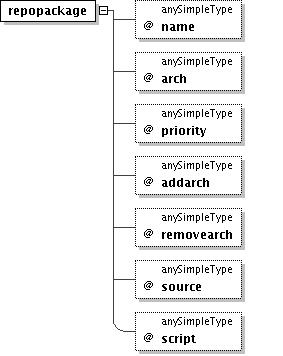
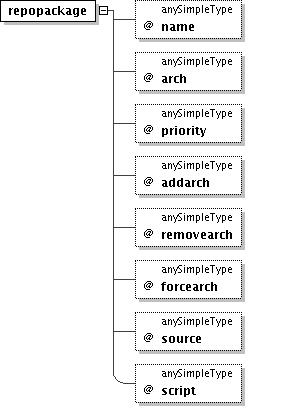
- added missing forcearch attribute to instsource
git-svn-id: https://svn.berlios.de/svnroot/repos/kiwi/kiwi-head@936 92bc7f66-5d17-0410-ac0d-e081219a1bb3

Changed region(s): [[0.3958, 0.0, 0.8763, 0.9888], [0.0, 0.0, 0.4806, 0.0927]]

diff --git a/doc/kiwi.xsd.html b/doc/kiwi.xsd.html
@@ -3293,34 +3293,34 @@ the contents of this file controls the image deploy process</td>
             <img usemap="#h1597581474" src="kiwi.xsd.diag/h1597581474.jpg"/>
             <!--
             Map ref: file:/opt/kiwi/doc//kiwi.xsd.diag/h1597581474.map--><map name="h1597581474">
-               <area shape="rect" alt="h-129865927" coords="180,140,306,165"
+               <area shape="rect" alt="h-129865927" coords="180,276,306,301"
                      href="kiwi.xsd.html#h-129865927"/>
 
-               <area shape="rect" alt="h-710426059" coords="180,175,308,200"
+               <area shape="rect" alt="h-710426059" coords="180,311,308,336"
                      href="kiwi.xsd.html#h-710426059"/>
 
-               <area shape="rect" alt="h263313869" coords="180,210,284,250"
+               <area shape="rect" alt="h263313869" coords="180,346,284,386"
                      href="kiwi.xsd.html#h263313869"/>
 
-               <area shape="rect" alt="h-2131967228" coords="180,260,301,300"
+               <area shape="rect" alt="h-2131967228" coords="180,396,301,436"
                      href="kiwi.xsd.html#h-2131967228"/>
 
-               <area shape="rect" alt="h-587603195" coords="180,310,270,350"
+               <area shape="rect" alt="h-587603195" coords="180,446,270,486"
                      href="kiwi.xsd.html#h-587603195"/>
 
-               <area shape="rect" alt="h21526280" coords="180,360,279,400"
+               <area shape="rect" alt="h21526280" coords="180,496,279,536"
                      href="kiwi.xsd.html#h21526280"/>
 
-               <area shape="rect" alt="h-1599988627" coords="180,410,300,450"
+               <area shape="rect" alt="h-1599988627" coords="180,546,300,586"
                      href="kiwi.xsd.html#h-1599988627"/>
 
-               <area shape="rect" alt="h-1535132790" coords="180,460,278,500"
+               <area shape="rect" alt="h-1535132790" coords="180,596,278,636"
                      href="kiwi.xsd.html#h-1535132790"/>
 
-               <area shape="rect" alt="h-589533161" coords="180,510,264,550"
+               <area shape="rect" alt="h-589533161" coords="180,646,264,686"
                      href="kiwi.xsd.html#h-589533161"/>
 
-               <area shape="rect" alt="h2016445136" coords="180,560,294,600"
+               <area shape="rect" alt="h2016445136" coords="180,696,294,736"
                      href="kiwi.xsd.html#h2016445136"/>
 
             </map>
@@ -9816,6 +9816,12 @@ filesystem.</td>
                <area shape="rect" alt="h692902191" coords="161,72,429,98"
                      href="kiwi.xsd.html#h692902191"/>
 
+               <area shape="rect" alt="h2087602125" coords="161,108,428,134"
+                     href="xsi.xsd.html#h2087602125"/>
+
+               <area shape="rect" alt="h1527693433" coords="161,144,346,170"
+                     href="xsi.xsd.html#h1527693433"/>
+
             </map>
          </div>
          <script type="text/javascript">
@@ -10057,7 +10063,10 @@ filesystem.</td>
             <img usemap="#h455843852" src="kiwi.xsd.diag/h455843852.jpg"/>
             <!--
             Map ref: file:/opt/kiwi/doc//kiwi.xsd.diag/h455843852.map--><map name="h455843852">
-</map>
+               <area shape="rect" alt="h2087602125" coords="356,0,623,26"
+                     href="xsi.xsd.html#h2087602125"/>
+
+            </map>
          </div>
          <script type="text/javascript">
 <!--
@@ -10129,7 +10138,10 @@ filesystem.</td>
             <img usemap="#h1400835510" src="kiwi.xsd.diag/h1400835510.jpg"/>
             <!--
             Map ref: file:/opt/kiwi/doc//kiwi.xsd.diag/h1400835510.map--><map name="h1400835510">
-</map>
+               <area shape="rect" alt="h1527693433" coords="274,0,459,26"
+                     href="xsi.xsd.html#h1527693433"/>
+
+            </map>
          </div>
          <script type="text/javascript">
 <!--
@@ -13517,6 +13529,10 @@ filesystem.</td>
                <span class="occurs">[0..1]</span> 
                <p class="documentation">'Specifies that the package with the given arch should be removed'</p>"</span>
             <br/>
+            <span style="margin-left: 0em"> forcearch="<span class="type">anySimpleType</span> 
+               <span class="occurs">[0..1]</span> 
+               <p class="documentation">'Specifies that the package with the given arch should be used in any case'</p>"</span>
+            <br/>
             <span style="margin-left: 0em"> source="<span class="type">anySimpleType</span> 
                <span class="occurs">[0..1]</span> 
                <p class="documentation">'A location where packages can be found to build an installation source from'</p>"</span>
@@ -13576,6 +13592,8 @@ filesystem.</td>
                   <span class="scTag">name</span>="<span class="scContent">addarch</span>"/&gt;</div>
                <div style="margin-left: 1.5em">&lt;<span class="scTag">xs:attribute</span> 
                   <span class="scTag">name</span>="<span class="scContent">removearch</span>"/&gt;</div>
+               <div style="margin-left: 1.5em">&lt;<span class="scTag">xs:attribute</span> 
+                  <span class="scTag">name</span>="<span class="scContent">forcearch</span>"/&gt;</div>
                <div style="margin-left: 1.5em">&lt;<span class="scTag">xs:attribute</span> 
                   <span class="scTag">name</span>="<span class="scContent">source</span>"/&gt;</div>
                <div style="margin-left: 1.5em">&lt;<span class="scTag">xs:attribute</span> 
